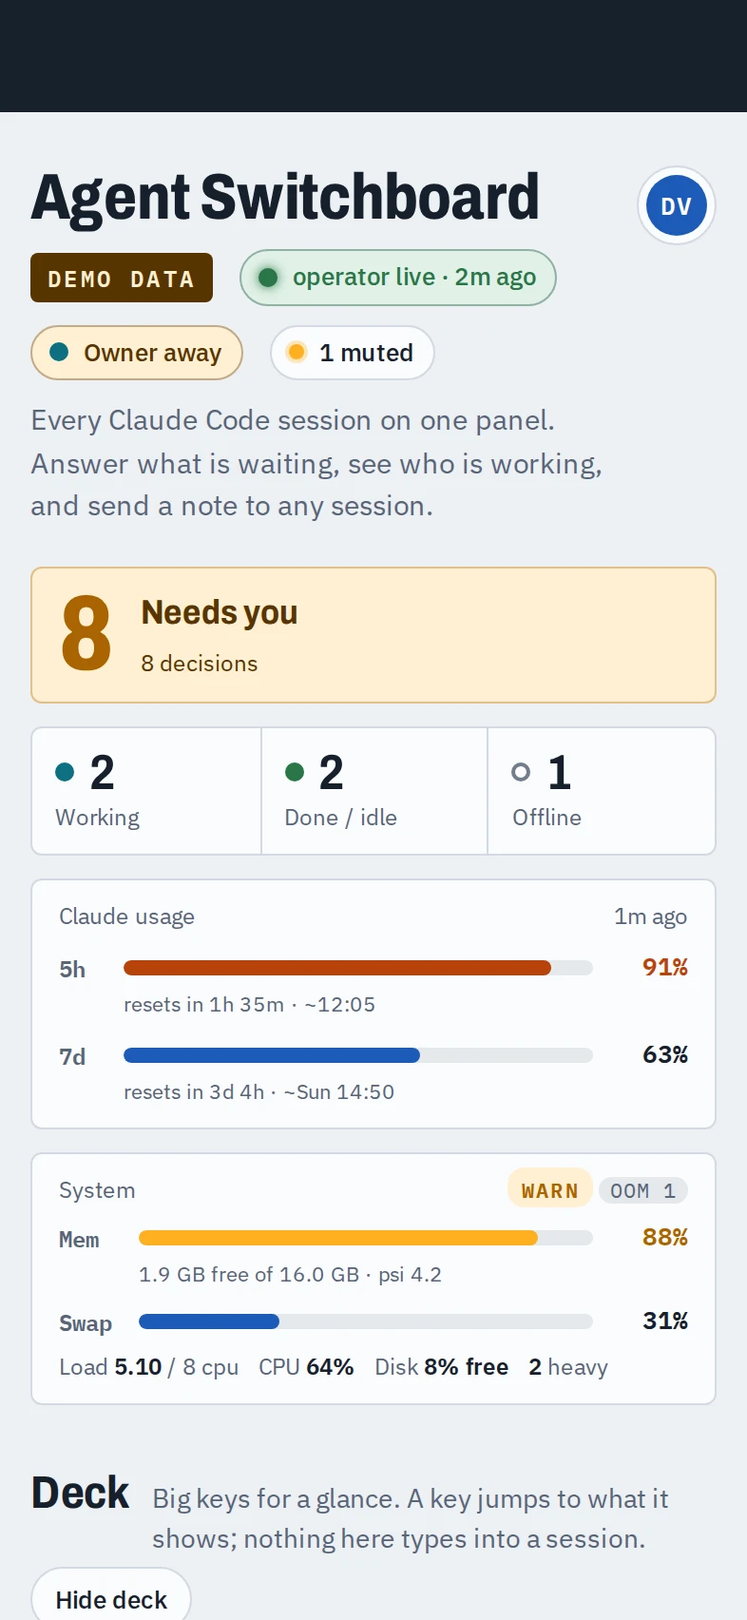
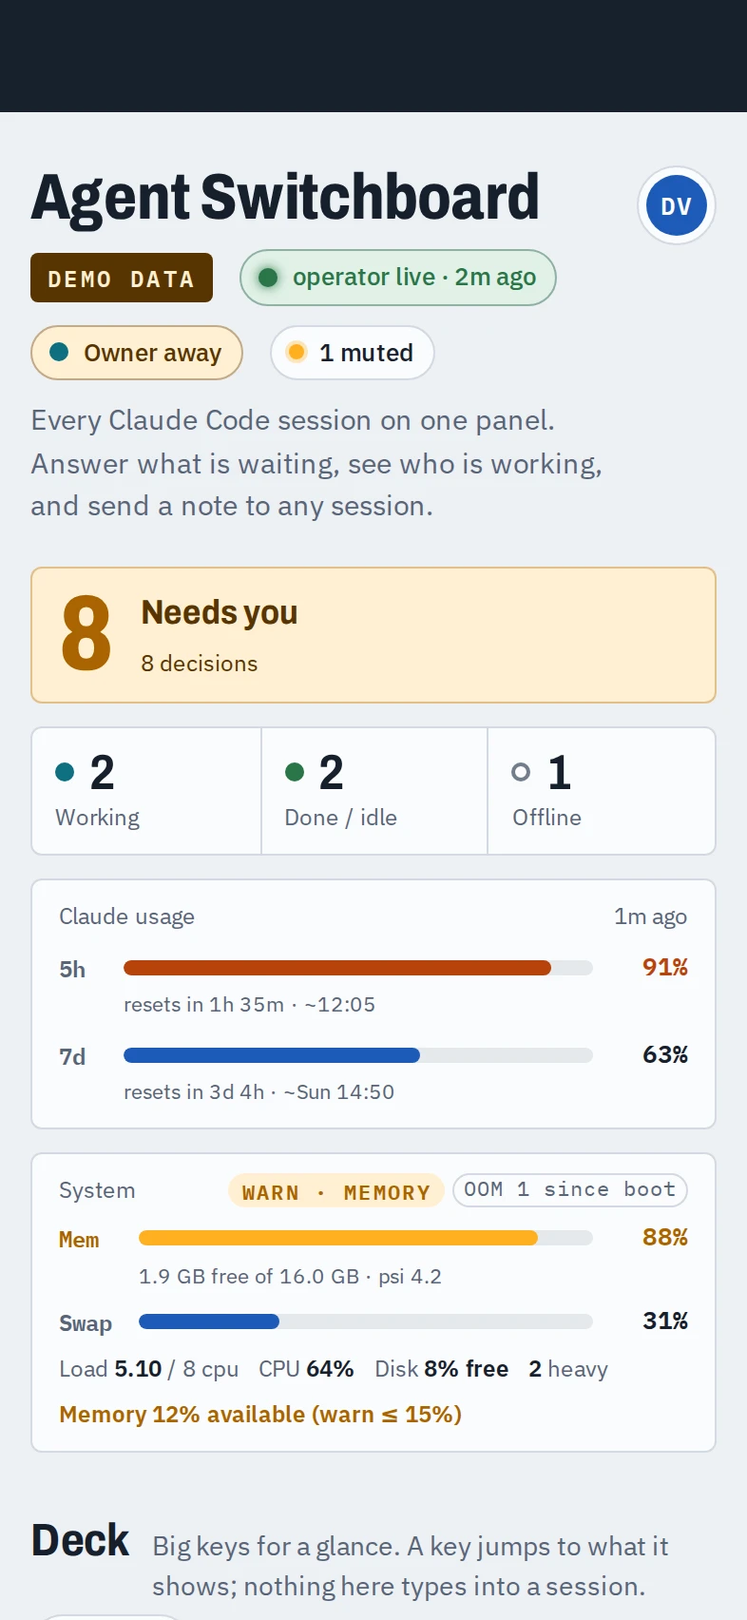
fix(page): the System tile says why its level is what it is
- The level pill names the cause ("critical · CPU load"), the row
  that drives the level takes its colour, and one line says why: the
  value against its threshold ("Load 27.7 / 4 cpu = 6.93 per cpu (high
  >= 3.0)"). The popover starts with the same reason and ends with what
  the levels mean.
- A since-boot OOM count is neutral and labelled so; only an OOM kill
  in the last 10 minutes looks alarming.
- The collector passes the thresholds in use to the board and the
  mirror; a board without them uses the defaults.
- A slow tap on a link tile no longer both opens its popover and
  follows the link; the duplicate "Waiting" translation is gone.
- Screenshots reshot (the header grew by the reason line).

diff --git a/artifact/board.html b/artifact/board.html
@@ -648,6 +648,18 @@ table.log { border-collapse: collapse; width: 100%; font-size: 13px; min-width: 
 .lvl.critical { background: var(--deny-soft); color: var(--deny); }
 .oom { font-family: var(--f-mono); font-size: 11px; padding: 0 6px; border-radius: 9px; background: var(--off-soft); color: var(--muted); }
 .oom.hot { background: var(--deny); color: #fff; }
+/* a since-boot OOM count is history, not an alarm: neutral unless one was recent */
+.oom:not(.hot) { background: none; box-shadow: inset 0 0 0 1px var(--rule); color: var(--muted); }
+/* the System tile names what drives its level: that row in the level's colour, and one line why */
+.sys .u-title { flex-wrap: wrap; }
+.sys .s-badges { display: inline-flex; flex-wrap: wrap; justify-content: flex-end; gap: 4px; }
+.sys.lv-warn { --lvc: var(--lamp); }
+.sys.lv-high { --lvc: var(--heat); }
+.sys.lv-critical { --lvc: var(--deny); }
+.sys .u-row.drive .u-k { color: var(--lvc); font-weight: 700; }
+.sys .s-line .drive, .sys .s-line .drive b { color: var(--lvc); font-weight: 700; }
+.sys .s-why { font-size: 12px; font-weight: 600; color: var(--lvc); overflow-wrap: anywhere; }
+.sys .s-why[hidden] { display: none; }
 .res-meta { display: flex; flex-wrap: wrap; gap: 4px 14px; color: var(--muted); font-size: 13px; }
 .res-meta b { color: var(--ink); font-weight: 600; }
 .res-note { margin: 0; font-size: 13px; color: var(--muted); }
@@ -849,10 +861,11 @@ table.log { border-collapse: collapse; width: 100%; font-size: 13px; min-width: 
         <div class="u-row none" id="u-7d"><span class="u-k">7d</span><span class="u-bar" role="meter" aria-label="Weekly usage" data-i18n-attr="aria-label" aria-valuemin="0" aria-valuemax="100"><span style="width:0%"></span></span><span class="u-p">—</span><span class="u-r">not reported</span></div>
       </div>
       <a class="sys" id="sys" href="#resources" aria-label="System resources" data-i18n-attr="aria-label" hidden>
-        <span class="u-title"><span data-i18n>System</span><span><span class="lvl" id="sys-lvl">—</span> <span class="oom" id="sys-oom" title="OOM kills since boot" data-i18n-attr="title">OOM 0</span></span></span>
+        <span class="u-title"><span data-i18n>System</span><span class="s-badges"><span class="lvl" id="sys-lvl">—</span><span class="oom" id="sys-oom">OOM 0</span></span></span>
         <span class="u-row none" id="sys-mem"><span class="u-k" data-i18n>Mem</span><span class="u-bar" role="meter" aria-label="Memory used" data-i18n-attr="aria-label" aria-valuemin="0" aria-valuemax="100"><span style="width:0%"></span></span><span class="u-p">—</span><span class="u-r"></span></span>
         <span class="u-row none" id="sys-swap"><span class="u-k" data-i18n>Swap</span><span class="u-bar" role="meter" aria-label="Swap used" data-i18n-attr="aria-label" aria-valuemin="0" aria-valuemax="100"><span style="width:0%"></span></span><span class="u-p">—</span></span>
         <span class="s-line" id="sys-line"></span>
+        <span class="s-why" id="sys-why" hidden></span>
       </a>
     </div>
   </header>
@@ -1324,8 +1337,11 @@ table.log { border-collapse: collapse; width: 100%; font-size: 13px; min-width: 
       if (e.pointerType === 'mouse') return;
       P.touch = true; P.tapped = true;
       if (pop.hidden) show(); else P.hide();
-      setTimeout(() => { P.touch = false; P.tapped = false; }, 400);
+      setTimeout(() => { P.touch = false; }, 400);
     });
+    // The click of this tap follows its pointerup at once: clear the flag just after, however long
+    // the finger stayed down.
+    box.addEventListener('pointerup', (e) => { if (e.pointerType !== 'mouse') setTimeout(() => { P.tapped = false; }, 50); });
     box.addEventListener('pointercancel', () => { P.tapped = false; });
     box.addEventListener('click', (e) => { if (P.tapped) { P.tapped = false; e.preventDefault(); } });
     return P;
@@ -1560,7 +1576,8 @@ table.log { border-collapse: collapse; width: 100%; font-size: 13px; min-width: 
     if (!r) { pop.append(h('p', { text: tr('No resource data yet.') })); return; }
     const levels = r.levels && typeof r.levels === 'object' ? r.levels : {};
     const lv = (k) => (resLvl(levels[k]) ? ' · ' + trKnown(resLvl(levels[k]), RES_LEVELS) : '');
-    const lvl = resLvl(r.level) || 'ok';
+    const lvl = resLvl(r.level) || 'ok', why = resWhy(r);
+    pop.append(popLine(tr('Why: '), why ? why.text + (why.critical && why.metric !== 'oom' ? tr('; high for 2 samples in a row') : '') : tr('all within limits')));
     pop.append(popLine(tr('Level: '), trKnown(lvl, RES_LEVELS) + (r.worst ? ' · ' + tr('worst: {what}', { what: metricName(r.worst, r) }) : '')));
     const m = r.mem || {}, sw = r.swap || {}, c = r.cpu || {};
     pop.append(popLine(tr('Memory: '), m.available_pct == null ? tr('not available here')
@@ -1574,6 +1591,7 @@ table.log { border-collapse: collapse; width: 100%; font-size: 13px; min-width: 
     const idle = idleGroups(r), nIdle = idle.reduce((n, g) => n + g.idle.length, 0);
     pop.append(popLine(tr('Idle teammates: '), nIdle ? String(nIdle) + ' · ' + idle.map((g) => (g.code || tr('no session')) + ' ' + g.idle.length).join(', ') : '0'));
     pop.append(popLine(tr('Sampled: '), ts(r.at) ? rel(ts(r.at)) + ' (' + hhmm(ts(r.at)) + ')' : tr('unknown')));
+    pop.append(h('p', { class: 'k', text: tr('Levels: warn and high at each threshold; critical = high for 2 samples in a row, or an OOM kill in the last 10 minutes.') }));
   }
   function opPop(pop) {
     pop.textContent = '';
@@ -2432,7 +2450,44 @@ table.log { border-collapse: collapse; width: 100%; font-size: 13px; min-width: 
   const BAR_LVL = { ok: 'ok', warn: 'amber', high: 'orange', critical: 'red' };
   function fmtMb(v) { const n = Number(v); if (!isFinite(n)) return '?'; return n >= 1024 ? (n / 1024).toFixed(1) + ' GB' : Math.round(n) + ' MB'; }
   function fmtAge(s) { const n = Number(s); if (!isFinite(n) || s == null) return '—'; return n < 60 ? Math.round(n) + 's' : dur(n * 1000); }
-  const METRIC_NAMES = { mem: 'memory', swap: 'swap', load: 'load', oom: 'OOM kill' };
+  const METRIC_NAMES = { mem: 'memory', swap: 'swap', load: 'CPU load', oom: 'OOM kill' };
+  // The collector's thresholds ([warn, high]; critical = high for 2 samples in a row, or an OOM kill
+  // in the last 10 minutes): r.thresholds when the board reports them, else these defaults.
+  const RES_THR = { mem_available_pct: [15, 8], mem_available_mb: [2048, 1024], swap_used_pct: [50, 80], psi_mem_some_avg60: [10, 25],
+    load_per_cpu: [1.5, 3.0], disk_free_pct: [10, 3], disk_free_mb: [5120, 1024] };
+  const fmtThr = (v) => (Number.isInteger(Number(v)) ? Number(v).toFixed(1) : String(v));
+  // Why the System level is what it is, in words: { metric, text, critical } or null when ok.
+  function resWhy(r) {
+    const lvl = resLvl(r.level) || 'ok', w = str(r.worst);
+    if (lvl === 'ok' || !w) return null;
+    const thr = Object.assign({}, RES_THR, r.thresholds && typeof r.thresholds === 'object' ? r.thresholds : {});
+    const step = lvl === 'warn' ? 0 : 1, L = trKnown(lvl === 'warn' ? 'warn' : 'high', RES_LEVELS);
+    const at = (k) => (Array.isArray(thr[k]) && thr[k][step] != null ? Number(thr[k][step]) : null);
+    const num = (v) => (v == null || !isFinite(Number(v)) ? null : Number(v));
+    let text = '';
+    if (w === 'oom') text = tr('an OOM kill in the last 10 minutes');
+    else if (w === 'load') {
+      const c = r.cpu || {}, load = Array.isArray(c.load) ? num(c.load[0]) : null, n = num(c.ncpu);
+      const per = num(c.load_per_cpu) != null ? num(c.load_per_cpu) : load != null && n ? load / n : null;
+      text = per == null ? tr('CPU load') : tr('Load {load} / {n} cpu = {per} per cpu ({lvl} ≥ {t})',
+        { load: load == null ? '?' : load.toFixed(1), n: n || '?', per: per.toFixed(2), lvl: L, t: fmtThr(at('load_per_cpu')) });
+    } else if (w === 'mem') {
+      const m = r.mem || {}, pct = num(m.available_pct), mb = num(m.available_mb), psi = num(m.psi_some_avg60);
+      if (mb != null && at('mem_available_mb') != null && mb <= at('mem_available_mb') && !(pct != null && at('mem_available_pct') != null && pct <= at('mem_available_pct')))
+        text = tr('Memory {mb} available ({lvl} ≤ {t})', { mb: fmtMb(mb), lvl: L, t: fmtMb(at('mem_available_mb')) });
+      else if (psi != null && at('psi_mem_some_avg60') != null && psi >= at('psi_mem_some_avg60') && !(pct != null && pct <= at('mem_available_pct')))
+        text = tr('Memory pressure {psi} ({lvl} ≥ {t})', { psi: psi.toFixed(1), lvl: L, t: fmtThr(at('psi_mem_some_avg60')) });
+      else text = tr('Memory {pct}% available ({lvl} ≤ {t}%)', { pct: pct == null ? '?' : Math.round(pct), lvl: L, t: at('mem_available_pct') });
+    } else if (w === 'swap') {
+      text = tr('Swap {pct}% used ({lvl} ≥ {t}%)', { pct: num((r.swap || {}).used_pct) == null ? '?' : Math.round(r.swap.used_pct), lvl: L, t: at('swap_used_pct') });
+    } else if (w.startsWith('disk:')) {
+      const d = objs(r.disks).find((x) => str(x.id) === w.slice(5)) || {}, name = metricName(w, r);
+      text = num(d.free_pct) != null && at('disk_free_pct') != null && num(d.free_pct) <= at('disk_free_pct')
+        ? tr('{disk}: {pct}% free ({lvl} ≤ {t}%)', { disk: name, pct: d.free_pct, lvl: L, t: at('disk_free_pct') })
+        : tr('{disk}: {mb} free ({lvl} ≤ {t})', { disk: name, mb: fmtMb(d.free_mb), lvl: L, t: fmtMb(at('disk_free_mb')) });
+    } else text = metricName(w, r);
+    return { metric: w.split(':')[0], worst: w, text, critical: lvl === 'critical' };
+  }
   function metricName(m, r) {
     const k = str(m);
     if (!k.startsWith('disk:')) return k ? trMap(METRIC_NAMES, k) : tr('resources');
@@ -2470,23 +2525,39 @@ table.log { border-collapse: collapse; width: 100%; font-size: 13px; min-width: 
     if (!r) return;
     const levels = r.levels && typeof r.levels === 'object' ? r.levels : {};
     const lvl = resLvl(r.level) || 'ok';
-    const chip = $('#sys-lvl'); chip.className = 'lvl ' + lvl; chip.textContent = trKnown(lvl, RES_LEVELS);
+    const why = resWhy(r), w = str(r.worst);
+    const short = w.startsWith('disk:') ? tr('disk {id}', { id: w.slice(5) }) : w ? metricName(w, r) : '';
+    const chip = $('#sys-lvl'); chip.className = 'lvl ' + lvl;
+    chip.textContent = trKnown(lvl, RES_LEVELS) + (why && short ? ' · ' + short : '');
     chip.title = r.worst ? tr('worst: {what}', { what: metricName(r.worst, r) }) : tr('all within limits');
-    const oom = $('#sys-oom');
+    tile.classList.remove('lv-warn', 'lv-high', 'lv-critical');
+    if (why) tile.classList.add('lv-' + lvl);
+    // A since-boot count is history: neutral and labelled so; only a recent OOM kill alarms.
+    const oom = $('#sys-oom'), n = r.oom_kills == null ? '?' : r.oom_kills;
     oom.hidden = r.oom_kills == null;
-    oom.textContent = 'OOM ' + (r.oom_kills == null ? '?' : r.oom_kills);
+    oom.textContent = r.oom_recent ? 'OOM ' + n : tr('OOM {n} since boot', { n });
+    oom.setAttribute('aria-label', tr(r.oom_recent ? '{n} OOM kills since boot, one in the last 10 minutes' : '{n} OOM kills since boot', { n }));
+    oom.title = oom.getAttribute('aria-label');
     oom.classList.toggle('hot', !!r.oom_recent);
     const m = r.mem || {}, sw = r.swap || {};
     setBar($('#sys-mem'), m.available_pct == null ? null : 100 - Number(m.available_pct), resLvl(levels.mem),
       null, m.available_mb == null ? tr('not available here') : tr('{free} free of {total}', { free: fmtMb(m.available_mb), total: fmtMb(m.total_mb) }) + (m.psi_some_avg60 ? ' · psi ' + Number(m.psi_some_avg60).toFixed(1) : ''));
     setBar($('#sys-swap'), sw.used_pct, resLvl(levels.swap));
+    // The row that drives the level, in the level's colour, and why in one line.
+    $('#sys-mem').classList.toggle('drive', !!why && why.metric === 'mem');
+    $('#sys-swap').classList.toggle('drive', !!why && why.metric === 'swap');
     const line = $('#sys-line'); line.textContent = '';
     const c = r.cpu || {};
-    if (Array.isArray(c.load)) line.append(h('span', null, tr('Load') + ' ', h('b', { text: Number(c.load[0]).toFixed(2) }), c.ncpu ? ' / ' + tr('{n} cpu', { n: c.ncpu }) : ''));
+    if (Array.isArray(c.load)) line.append(h('span', { class: why && why.metric === 'load' ? 'drive' : null, id: 'sys-load' }, tr('Load') + ' ', h('b', { text: Number(c.load[0]).toFixed(2) }), c.ncpu ? ' / ' + tr('{n} cpu', { n: c.ncpu }) : ''));
     if (c.pct != null) line.append(h('span', null, 'CPU ', h('b', { text: c.pct + '%' })));
     const disks = objs(r.disks).filter((d) => d.free_pct != null).sort((a, b) => Number(a.free_pct) - Number(b.free_pct));
-    if (disks.length) line.append(h('span', { title: (disks[0].labels || []).map(str).join(', ') }, tr('Disk') + ' ', h('b', { text: tr('{pct}% free', { pct: disks[0].free_pct }) })));
+    const dk = why && why.metric === 'disk' ? disks.find((d) => 'disk:' + str(d.id) === why.worst) : null;
+    const shown = dk || disks[0];
+    if (shown) line.append(h('span', { class: dk ? 'drive' : null, title: (shown.labels || []).map(str).join(', ') }, tr('Disk') + ' ', h('b', { text: tr('{pct}% free', { pct: shown.free_pct }) })));
     if (r.heavy_running) line.append(h('span', null, h('b', { text: String(r.heavy_running) }), ' ' + tr('heavy')));
+    const whyEl = $('#sys-why');
+    whyEl.hidden = !why;
+    whyEl.textContent = why ? why.text : '';
   }
   function renderResources() {
     const r = resView();
@@ -4827,7 +4898,6 @@ table.log { border-collapse: collapse; width: 100%; font-size: 13px; min-width: 
       "Deck panel": "按鍵面板",
       "Shown": "展開",
       "Collapsed": "收起",
-      "Waiting": "等待中",
       "Waiting: not known yet": "等待中：還不知道",
       "Nothing is waiting": "沒有在等的事",
       "Nothing is waiting.": "沒有在等的事。",
@@ -4955,6 +5025,21 @@ table.log { border-collapse: collapse; width: 100%; font-size: 13px; min-width: 
       "Alerts at: ": "提醒門檻：",
       "plan a switch": "規劃切換",
       "switch accounts": "切換帳號",
+      "CPU load": "CPU 負載",
+      "an OOM kill in the last 10 minutes": "最近 10 分鐘內有 OOM kill",
+      "Load {load} / {n} cpu = {per} per cpu ({lvl} ≥ {t})": "負載 {load} / {n} cpu = 每顆 cpu {per}（{lvl} ≥ {t}）",
+      "Memory {mb} available ({lvl} ≤ {t})": "記憶體可用 {mb}（{lvl} ≤ {t}）",
+      "Memory pressure {psi} ({lvl} ≥ {t})": "記憶體壓力 {psi}（{lvl} ≥ {t}）",
+      "Memory {pct}% available ({lvl} ≤ {t}%)": "記憶體可用 {pct}%（{lvl} ≤ {t}%）",
+      "Swap {pct}% used ({lvl} ≥ {t}%)": "Swap 已用 {pct}%（{lvl} ≥ {t}%）",
+      "{disk}: {pct}% free ({lvl} ≤ {t}%)": "{disk}：剩 {pct}%（{lvl} ≤ {t}%）",
+      "{disk}: {mb} free ({lvl} ≤ {t})": "{disk}：剩 {mb}（{lvl} ≤ {t}）",
+      "OOM {n} since boot": "開機以來 OOM {n}",
+      "{n} OOM kills since boot": "開機以來 {n} 次 OOM kill",
+      "{n} OOM kills since boot, one in the last 10 minutes": "開機以來 {n} 次 OOM kill，最近 10 分鐘內有一次",
+      "Why: ": "原因：",
+      "; high for 2 samples in a row": "；連續 2 次取樣都在 high",
+      "Levels: warn and high at each threshold; critical = high for 2 samples in a row, or an OOM kill in the last 10 minutes.": "等級：每個門檻分 warn 和 high；連續 2 次取樣在 high，或最近 10 分鐘內有 OOM kill，就是 critical。",
     };
   }
 })();

diff --git a/tests/test_page_header_tips.py b/tests/test_page_header_tips.py
@@ -9,7 +9,9 @@ side scrolling, shows the detail behind the number, and is in 繁體中文 when 
 tile only opens its popover on a tap (its popover links on), and still follows the link on a
 click or Enter. Escape with the focus inside a popover puts it back on the box. No popover shows a
 session card's own text (what it is doing, its prompt). On the Artifact page the operator
-popover says so.
+popover says so. The System tile says why its level is what it is: the cause on the level pill,
+the row that drives it highlighted with a one-line reason, a since-boot OOM count neutral and only
+a recent OOM kill alarming (en / 繁體中文, dark theme, 390 px).
 
 Needs python playwright and a Chromium it can launch; without them it prints "skipped" and
 exits 0, so it never blocks anyone. CI does not run it.
@@ -20,6 +22,7 @@ PLAYWRIGHT_CHROMIUM_EXECUTABLE points at a specific Chromium / headless shell wh
 playwright expects is not installed. Uses the demo adapter (file://) and a stubbed claude.ai
 viewer; never touches ~/.agent-switchboard.
 """
+import json
 import os
 import re
 import sys
@@ -83,6 +86,32 @@ CLAUDE_STUB = """(() => {
     me: async () => ({ id: 'u_x', name: '', avatarUrl: '', color: '#777', email: null, isOwner: true, canEdit: true }) };
   window.claude = { use: (n) => Promise.resolve(n === 'user' ? user : n === 'db' ? { collection: query, doc } : null) };
 })();"""
+
+
+# meta/resources as the operator mirrors it: load critical (6.93 per cpu), memory fine, 2 OOM kills
+# since boot, none recent.
+RES_LOAD = {"enabled": True, "platform": "linux", "level": "critical", "worst": "load",
+            "levels": {"mem": "ok", "swap": "ok", "load": "critical", "disk:disk1": "ok"},
+            "cpu": {"pct": 95, "ncpu": 4, "load": [27.72, 20.1, 15.3], "load_per_cpu": 6.93},
+            "mem": {"available_pct": 35, "available_mb": 5800, "total_mb": 16000},
+            "swap": {"used_pct": 5}, "oom_kills": 2, "oom_recent": False,
+            "disks": [{"id": "disk1", "free_pct": 40, "free_mb": 50000, "labels": ["$BOARD_HOME"]}],
+            "sessions": [], "heavy_running": 0, "operator": {"watch": True},
+            "thresholds": {"load_per_cpu": [1.5, 3.0], "mem_available_pct": [15, 8]}}
+RES_OOM = dict(RES_LOAD, worst="oom", oom_kills=3, oom_recent=True, levels=dict(RES_LOAD["levels"], oom="critical"))
+SYS_JS = """() => { const t = document.getElementById('sys'), o = document.getElementById('sys-oom'), w = document.getElementById('sys-why');
+  const ld = document.getElementById('sys-load'), clear = (c) => c === 'transparent' || /rgba\\(.*,\\s*0\\)$/.test(c);
+  return { pill: document.getElementById('sys-lvl').textContent, why: w.hidden ? null : w.textContent,
+    load: ld ? { drive: ld.classList.contains('drive'), weight: getComputedStyle(ld).fontWeight, color: getComputedStyle(ld).color } : null,
+    memDrive: document.getElementById('sys-mem').classList.contains('drive'), lineColor: getComputedStyle(document.getElementById('sys-line')).color,
+    oom: { text: o.textContent, label: o.getAttribute('aria-label'), hot: o.classList.contains('hot'), filled: !clear(getComputedStyle(o).backgroundColor) },
+    vw: document.documentElement.clientWidth, sw: document.scrollingElement.scrollWidth, right: t.getBoundingClientRect().right }; }"""
+
+
+def res_stub(res):
+    return CLAUDE_STUB.replace("const d = path === 'meta/operator' ? { heartbeat_at: Date.now() - 60000, approver_ids: ['u_x'] } : null;",
+                               "const d = path === 'meta/operator' ? { heartbeat_at: Date.now() - 60000, approver_ids: ['u_x'] }"
+                               " : path === 'meta/resources' ? Object.assign(%s, { at: Date.now() - 5000 }) : null;" % json.dumps(res))
 
 
 def main():
@@ -191,6 +220,13 @@ def main():
         pg.tap("h1")
         check("a tap outside closes it", not st(pg, "sys")["open"])
         check("a tap on a link tile does not follow the link", pg.evaluate("() => location.hash") == "")
+        # A slow tap (finger down 600 ms) opens the popover and still does not follow the link.
+        pg.evaluate("""async () => { const b = document.getElementById('sys'), o = { pointerType: 'touch', bubbles: true, isPrimary: true };
+          b.dispatchEvent(new PointerEvent('pointerdown', o)); await new Promise((r) => setTimeout(r, 600));
+          b.dispatchEvent(new PointerEvent('pointerup', o)); b.click(); }""")
+        check("a slow tap opens the popover and does not follow the link",
+              st(pg, "sys")["open"] and pg.evaluate("() => location.hash") == "", pg.evaluate("() => location.hash"))
+        pg.tap("h1")
         # ...its popover links on: System -> Resources, Needs you -> Decisions.
         for box, link, head in (("sys", "#sys-pop-sec", "h-resources"), ("needs-tile", "#needs-pop-sec", "h-decisions")):
             pg.evaluate("() => scrollTo(0, 0)")
@@ -237,6 +273,51 @@ def main():
         pg.wait_for_timeout(300)
         check("...still links on to Decisions", not st(pg, "needs-tile")["open"] and pg.evaluate("() => document.activeElement.id") == "h-decisions")
         pg.close()
+
+        print("System tile says why:")
+        for scheme, vp, lang in (("light", {"width": 1280, "height": 900}, "en"), ("dark", {"width": 390, "height": 844}, "zh-TW")):
+            for res in (RES_LOAD, RES_OOM):
+                pg = new_page(res_stub(res), viewport=vp, color_scheme=scheme, has_touch=vp["width"] < 400)
+                pg.goto(PAGE)
+                pg.wait_for_selector("#sys:not([hidden])", timeout=5000)
+                if lang == "zh-TW":
+                    pg.click("#acct-btn")
+                    pg.click('label:has(input[name="sb-lang"][value="zh-TW"])')
+                    pg.keyboard.press("Escape")
+                    pg.wait_for_timeout(100)
+                y = pg.evaluate(SYS_JS)
+                tag = "%s, %s, %dpx, %s" % (lang, scheme, vp["width"], "load" if res is RES_LOAD else "recent OOM")
+                zh = lang == "zh-TW"
+                if res is RES_LOAD:
+                    check("%s: the level pill names the cause" % tag, y["pill"] == ("危急 · CPU 負載" if zh else "critical · CPU load"), y["pill"])
+                    check("%s: the Load row drives it (highlighted), memory does not" % tag,
+                          y["load"]["drive"] and int(y["load"]["weight"]) >= 700 and y["load"]["color"] != y["lineColor"] and not y["memDrive"], y)
+                    check("%s: one line why, per cpu against the threshold" % tag, y["why"] == (
+                        "負載 27.7 / 4 cpu = 每顆 cpu 6.93（高 ≥ 3.0）" if zh else "Load 27.7 / 4 cpu = 6.93 per cpu (high ≥ 3.0)"), y["why"])
+                    check("%s: a since-boot OOM count is neutral and says so" % tag, not y["oom"]["hot"] and not y["oom"]["filled"]
+                          and y["oom"]["text"] == ("開機以來 OOM 2" if zh else "OOM 2 since boot")
+                          and y["oom"]["label"] == ("開機以來 2 次 OOM kill" if zh else "2 OOM kills since boot"), y["oom"])
+                else:
+                    check("%s: a recent OOM kill alarms" % tag, y["oom"]["hot"] and y["oom"]["filled"] and y["oom"]["text"] == "OOM 3", y["oom"])
+                    check("%s: ...and is the reason" % tag, y["pill"] == ("危急 · OOM kill" if zh else "critical · OOM kill")
+                          and y["why"] == ("最近 10 分鐘內有 OOM kill" if zh else "an OOM kill in the last 10 minutes") and not y["load"]["drive"], y)
+                check("%s: no side scroll, tile on screen" % tag, y["sw"] <= y["vw"] and y["right"] <= y["vw"], y)
+                if vp["width"] < 400:
+                    pg.tap("#sys")
+                else:
+                    pg.hover("#sys")
+                pg.wait_for_timeout(100)
+                t = st(pg, "sys")
+                first = (t.get("text") or "").split("\n")[0]
+                if res is RES_LOAD:
+                    want = ("原因：負載 27.7 / 4 cpu = 每顆 cpu 6.93（高 ≥ 3.0）；連續 2 次取樣都在 high" if zh
+                            else "Why: Load 27.7 / 4 cpu = 6.93 per cpu (high ≥ 3.0); high for 2 samples in a row")
+                else:
+                    want = "原因：最近 10 分鐘內有 OOM kill" if zh else "Why: an OOM kill in the last 10 minutes"
+                check("%s: the popover starts with why" % tag, first == want, first)
+                check("%s: ...and says what the levels mean" % tag, ("等級：" if zh else "Levels: warn and high") in t["text"]
+                      and t["right"] <= t["vw"] and t["sw"] <= t["vw"], t)
+                pg.close()
 
         check("no page errors", not errors, errors)
         browser.close()

diff --git a/lib/resources.py b/lib/resources.py
@@ -899,7 +899,7 @@ def sample(rcfg, home, sessions, state, now):
         "orphan_teammates": orphans, "heavy_running": heavy_roots,
         "teammate_idle_minutes": rcfg["teammate_idle_minutes"],
         "operator": {"watch": watch if procs else None},
-        "unavailable": sorted(set(unavailable)), "interval": rcfg["interval"],
+        "unavailable": sorted(set(unavailable)), "interval": rcfg["interval"], "thresholds": thr,
         "config_errors": rcfg.get("config_errors") or [],
     })
     state["at"] = now
@@ -1091,6 +1091,7 @@ def board_view(doc):
         "orphan_teammates": [{k: t.get(k) for k in BOARD_TM_KEYS} for t in doc.get("orphan_teammates") or [] if isinstance(t, dict)],
         "heavy_running": doc.get("heavy_running"), "unavailable": doc.get("unavailable") or [],
         "teammate_idle_minutes": doc.get("teammate_idle_minutes"), "operator": doc.get("operator"),
+        "thresholds": doc.get("thresholds") if isinstance(doc.get("thresholds"), dict) else None,
     }
 
 

diff --git a/tests/test_page_links.py b/tests/test_page_links.py
@@ -206,9 +206,9 @@ def main():
             go(PAGE + "?demo=1")
             r = page.evaluate(RES_JS)
             check("System tile shown", r["tile"], r)
-            check("level chip", r["lvl"] == "warn", r)
+            check("level chip names the cause", r["lvl"] == "warn · memory", r)
             check("memory bar: used % in the warn color", r["mem"] == "88%" and "lvl-amber" in r["memCls"], r)
-            check("OOM counter", r["oom"] == "OOM 1", r)
+            check("OOM counter: a since-boot count, labelled so", r["oom"] == "OOM 1 since boot", r)
             check("a row per session plus orphaned teammates", r["rows"] == 4, r)
             check("idle teammates flagged", r["idle"] == 2, r)
             check("disks table", r["disks"] == 2, r)

diff --git a/tests/test_resources.py b/tests/test_resources.py
@@ -665,6 +665,9 @@ class Views(Base):
         self.assertEqual(R.board_view({"enabled": False, "at": 1, "operator": {"watch": True}})["enabled"], False)
         m = R.mirror_view(doc)
         self.assertEqual(m["sessions"][0]["rss_mb"], 400)
+        # The thresholds in use go along, so the board can say why a level is what it is.
+        self.assertEqual(v["thresholds"]["load_per_cpu"], [1.5, 3.0])
+        self.assertEqual(m["thresholds"], v["thresholds"])
         self.assertEqual(m["at"] % 60000, 0)
 
 

diff --git a/docs/contract.md b/docs/contract.md
@@ -976,8 +976,14 @@ ever stops a process**.
      "teammates_n": 0, "teammates_rss_mb": 0, "idle_teammates_n": 0} ],
   "orphan_teammates": [ teammate rows whose parent session is not live ],
   "heavy_running": 1, "teammate_idle_minutes": 30, "operator": {"watch": true|false|null},
-  "unavailable": ["psi", "swap", "disk"], "interval": 15, "config_errors": [] }
+  "unavailable": ["psi", "swap", "disk"], "interval": 15, "config_errors": [],
+  "thresholds": {"load_per_cpu": [1.5, 3.0], ...} }
 ```
+
+- **`thresholds`** are the `[warn, high]` pairs in use (`resources.thresholds` after defaults and
+  validation). They go to `/api/state` and `meta/resources`, so the System tile can say why its
+  level is what it is ("Load 27.7 / 4 cpu = 6.93 per cpu (high ≥ 3.0)"). A board without them uses
+  the defaults.
 
 - **Sources.** Linux/WSL: `/proc/{stat,loadavg,meminfo,vmstat,pressure/memory,uptime}` and
   `/proc/<pid>/{stat,cmdline}`. Elsewhere: `os.getloadavg()`, `statvfs` and `ps -axo
